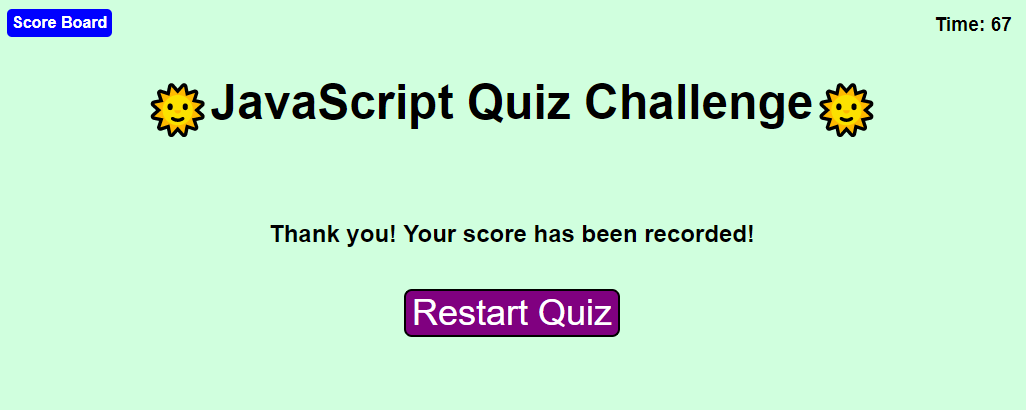
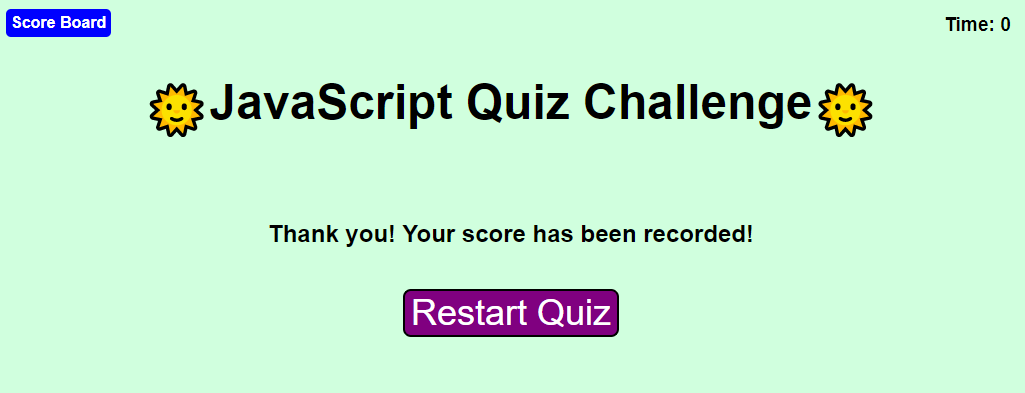
adding minor fixes on code and README file

diff --git a/Assets/js/script.js b/Assets/js/script.js
@@ -153,6 +153,7 @@ function startCountDown() {
 function checkTimer() {
     if ((i === questionList.length) || ((i === questionList.length) && countdown <= 0)) {
         clearInterval(timer);
+        timerEl.textContent = "Time: " + 0;
         var thankyou = document.createElement("h1");
         var endScore = document.createElement("h2");
         thankyou.textContent = "Thank you for playing!"

diff --git a/README.md b/README.md
@@ -44,7 +44,7 @@ The following image demnonstrate the application functionality:
 ![A user clicks Start Game button to start the game, then the timer will start.](./Assets/images/start_menu.png)
 
 When the page is opened, user can see header title with start game button, option to see score board, and timer indication.
-When user start the game, timer will start countdown from 90 seconds, and questions pops up.
+When user start the game, timer will start countdown from 90 seconds, and questions will pop up.
 
 ![Quiz game has started, and timer starts countdown with questions.](./Assets/images/start_game.png)
 
@@ -64,19 +64,19 @@ Once user name is submitted, user can either view their score on score board or 
 
 ![User names and their scores can be seen from scoreboard.](./Assets/images/scoreboard.png)
 
-Score board will sort the list of players by score value, therefore, the player with the most score is placed at the fisrt place of the score baord.
+In the score board, it will sort the list of players by score value, so the player with the highest score is placed at the fisrt place.
 
 
 ## How to play
-This is Guide for the rule and how to play this quiz:
+Guide for the rule and how to play this quiz:
 
 > * User will be asked with total 10 JavaScript related questions. 
 
-> * If the user gets correct answer, will gain score by 1 point. If the user gets wrong answer, 10 seconds from the timer will be substracted (but there wiil be no point taken from the score). 
+> * If the user gets correct answer, will gain score by 1 point. If the user gets wrong answer, 10 seconds will be substracted from the timer (but there wiil be no point taken from the score). 
 
-> * User will be able to record their score result after finishing all 10 questions in time with their user name. User can still record their score even after timer reaches 0 and gamer over message shows up. Submitting their user name and recording their score is optional, but if the user choose to record their score, they must provide user name that isn't empty. 
+> * User will be able to record their score result after answering all 10 questions in time with their user name. User can still record their score even after timer reaches 0 and quiz is over. Submitting their user name and recording their score is optional, but if the user choose to record their score, they must provide user name that isn't empty. 
 
-> * User can see their recorded user name and score in scoreboard page. If user clicks scoreboard in the middle of the quiz, they won't be able to go back and resume the quiz, instead, they have to restart the entire quiz.
+> * User can see their recorded user name and score in the scoreboard page. If user clicks scoreboard button in the middle of the quiz, they won't be able to go back and resume the quiz, instead, they have to restart the entire quiz.
 
 
 ## Credits
